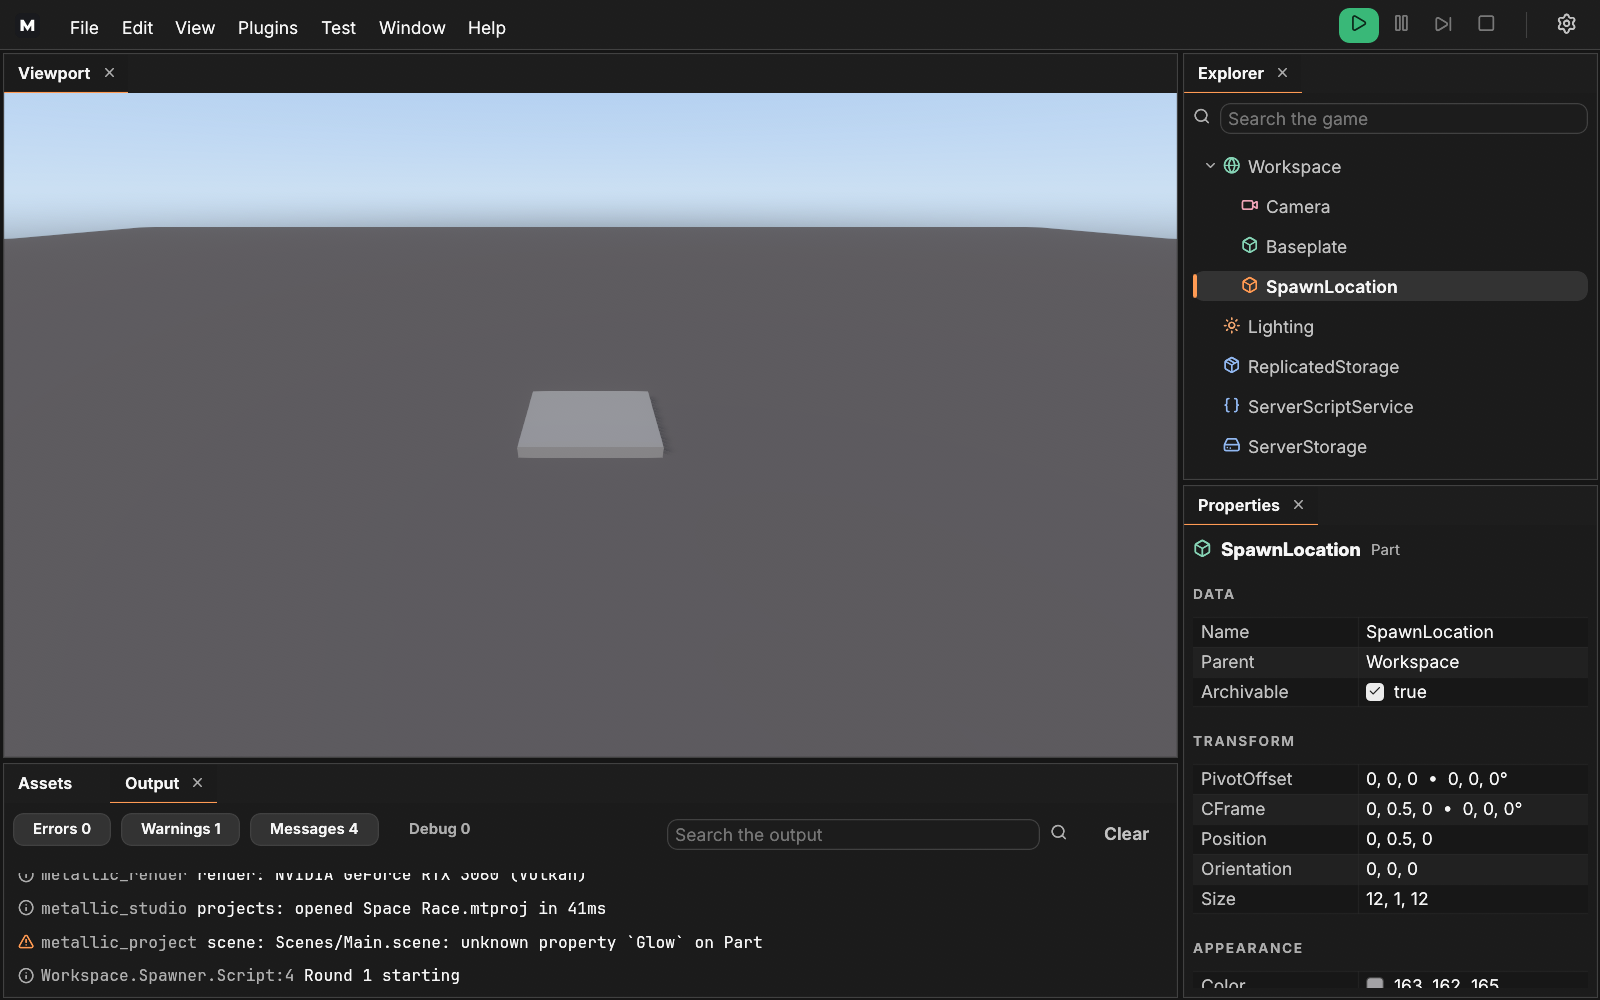
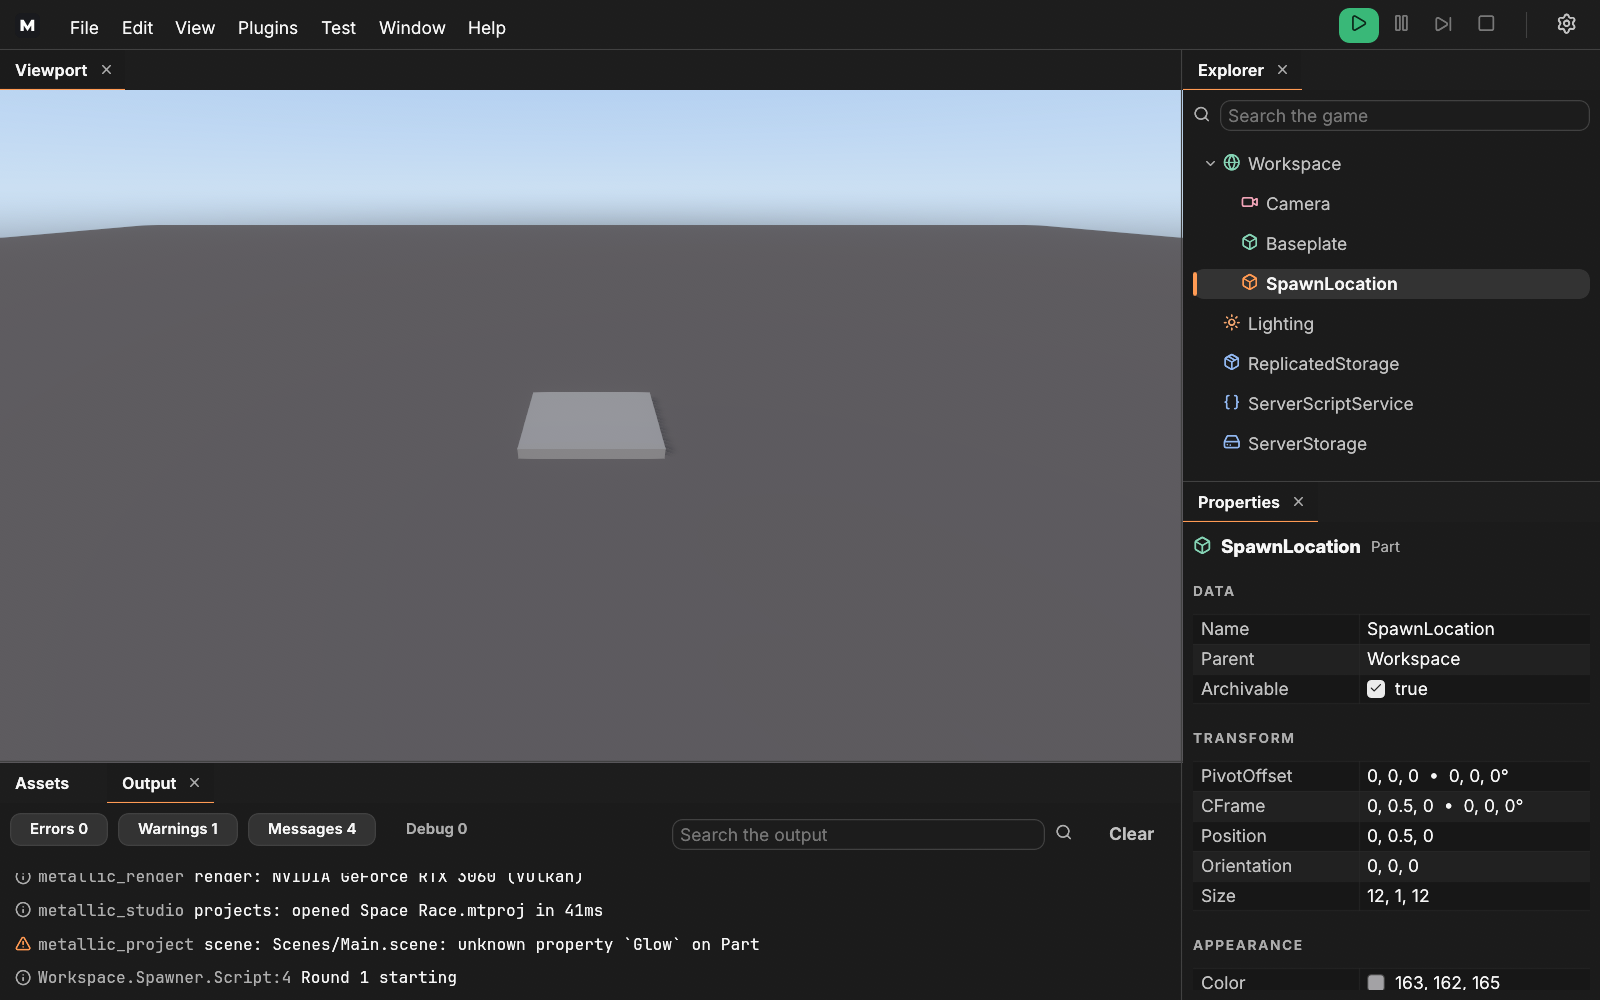
studio: no gaps between docked panels; borders only between them (#273) (#279)

diff --git a/apps/studio/src/dock/mod.rs b/apps/studio/src/dock/mod.rs
@@ -10,8 +10,8 @@
 //!   only when it changed and nothing is being dragged.
 //! - **Dock guides** (#237): while a tab is dragged, squares in the middle of the area under the pointer say where it
 //!   docks, and a drop anywhere but a square or a tab bar leaves the layout as it was ([`guides`]).
-//! - **Panel borders** (#262): with Settings → Appearance → Panel borders on, each group of tabs is outlined with the
-//!   Settings window's 1 px border, square, a little apart from the next.
+//! - **Panel borders** (#262, #273): the groups sit flush, and with Settings → Appearance → Panel borders on, a 1 px
+//!   line parts each from the next; a side along the window's edge has none.
 
 pub(crate) mod guides;
 pub mod layout;
@@ -351,6 +351,7 @@ impl Dock {
             panels: self.panels,
             borders,
             groups,
+            area: ui.max_rect(),
             cx,
             focus: DockFocus {
                 focused: self.focus.focused,
@@ -461,6 +462,8 @@ struct DockBehavior<'a, 'b> {
     borders: bool,
     /// The groups of tabs, which the borders outline.
     groups: Vec<TileId>,
+    /// The dock's whole area: a group's side along it has no border (#273).
+    area: Rect,
     /// Each tab drawn this frame and where: where a dragged tab goes in a bar it is dropped on.
     tabs: Vec<(TileId, Rect)>,
 }
@@ -491,8 +494,6 @@ const CLOSE_SIZE: f32 = 18.0;
 /// The active tab's accent underline (#255: 1 px, thinner than the 3 px bars that mark selected list items).
 pub(crate) const TAB_LINE: f32 = 1.0;
 
-/// The space between outlined groups of tabs (#262).
-const BORDER_GAP: f32 = space::S2;
 /// Every group of tabs in `tree`: what the panel borders outline.
 fn tab_groups(tree: &Tree<PanelId>) -> Vec<TileId> {
     tree.tiles
@@ -502,14 +503,26 @@ fn tab_groups(tree: &Tree<PanelId>) -> Vec<TileId> {
         .collect()
 }
 
-/// Outlines `rect` with the Settings window's 1 px border in `edge`: square, as docked panels are (owner, #262).
-fn paint_border(painter: &egui::Painter, rect: Rect, edge: Color32) {
-    painter.rect_stroke(
-        rect,
-        CornerRadius::ZERO,
-        Stroke::new(size::BORDER, edge),
-        egui::StrokeKind::Inside,
-    );
+/// The 1 px lines a group in `rect` draws (#273): borders only between docked panels, never along the dock's edge
+/// (`area`, the window's). Each group draws its right and bottom sides when another group is there, so two
+/// neighbours share one line rather than two.
+fn inner_edges(rect: Rect, area: Rect) -> Vec<Rect> {
+    // Within half a point: layouts are fractional.
+    const SAME: f32 = 0.5;
+    let mut lines = Vec::new();
+    if area.right() - rect.right() > SAME {
+        lines.push(Rect::from_min_max(
+            pos2(rect.right() - size::BORDER, rect.top()),
+            rect.right_bottom(),
+        ));
+    }
+    if area.bottom() - rect.bottom() > SAME {
+        lines.push(Rect::from_min_max(
+            pos2(rect.left(), rect.bottom() - size::BORDER),
+            rect.right_bottom(),
+        ));
+    }
+    lines
 }
 
 /// Draws one tab (its title and close button; no icon, #255) filling the bar's height, interacting as `id`. Returns
@@ -631,14 +644,13 @@ impl egui_tiles::Behavior<PanelId> for DockBehavior<'_, '_> {
     }
 
     fn gap_width(&self, _style: &egui::Style) -> f32 {
-        if self.borders { BORDER_GAP } else { 2.0 }
+        // Flush (#273): the borders, not gaps, part the groups.
+        0.0
     }
 
     fn resize_stroke(&self, style: &egui::Style, resize_state: ResizeState) -> Stroke {
         match resize_state {
-            // Outlined groups stand apart on the background; without borders the gap is the tab bars' colour.
-            ResizeState::Idle if self.borders => Stroke::NONE,
-            ResizeState::Idle => Stroke::new(self.gap_width(style), self.colors.palette.header),
+            ResizeState::Idle => Stroke::NONE,
             ResizeState::Hovering => style.visuals.widgets.hovered.fg_stroke,
             ResizeState::Dragging => style.visuals.widgets.active.fg_stroke,
         }
@@ -646,8 +658,9 @@ impl egui_tiles::Behavior<PanelId> for DockBehavior<'_, '_> {
 
     fn paint_on_top_of_tile(&self, painter: &egui::Painter, _style: &egui::Style, tile_id: TileId, rect: Rect) {
         if self.borders && self.groups.contains(&tile_id) {
-            let p = self.colors.palette;
-            paint_border(painter, rect, p.border);
+            for line in inner_edges(rect, self.area) {
+                painter.rect_filled(line, CornerRadius::ZERO, self.colors.palette.border);
+            }
         }
     }
 
@@ -764,29 +777,32 @@ mod tests {
     }
 
     #[test]
-    fn panel_borders_outline_each_group_of_tabs_square() {
+    fn panel_borders_are_lines_between_groups_only() {
         let dock = Dock::in_memory(PANELS);
         // Viewport, Assets and Output, Explorer, Properties.
         assert_eq!(tab_groups(dock.tree()).len(), 4);
 
-        let ctx = egui::Context::default();
-        let rect = Rect::from_min_size(pos2(10.0, 10.0), vec2(200.0, 100.0));
-        let edge = Color32::BLUE;
-        let mut output = ctx.run_ui(egui::RawInput::default(), |ui| {
-            paint_border(ui.painter(), rect, edge);
-        });
-        let shapes: Vec<&egui::Shape> = output.shapes.iter().map(|clipped| &clipped.shape).collect();
-        assert_eq!(shapes.len(), 1, "the outline alone");
-        let outline = shapes.iter().find_map(|shape| match shape {
-            egui::Shape::Rect(outline) => Some(outline),
-            _ => None,
-        });
-        let outline = outline.expect("an outline");
-        assert_eq!(outline.rect, rect);
-        assert_eq!(outline.corner_radius, CornerRadius::ZERO, "square, not rounded");
-        assert_eq!(outline.stroke, Stroke::new(size::BORDER, edge));
-        // epaint checks the frame's font texture was taken.
-        output.textures_delta.clear();
+        let area = Rect::from_min_max(pos2(0.0, 0.0), pos2(1000.0, 600.0));
+        let left_top = Rect::from_min_max(pos2(0.0, 0.0), pos2(700.0, 400.0));
+        let left_bottom = Rect::from_min_max(pos2(0.0, 400.0), pos2(700.0, 600.0));
+        let right = Rect::from_min_max(pos2(700.0, 0.0), pos2(1000.0, 600.0));
+        // Top left: a line along its right (the column beside it) and its bottom (the group under it).
+        assert_eq!(
+            inner_edges(left_top, area),
+            [
+                Rect::from_min_max(pos2(699.0, 0.0), pos2(700.0, 400.0)),
+                Rect::from_min_max(pos2(0.0, 399.0), pos2(700.0, 400.0)),
+            ]
+        );
+        // Bottom left: its bottom and left touch the window's edge, so only its right has a line.
+        assert_eq!(
+            inner_edges(left_bottom, area),
+            [Rect::from_min_max(pos2(699.0, 400.0), pos2(700.0, 600.0))]
+        );
+        // The right column touches the window on three sides and its neighbour draws the line between: none.
+        assert!(inner_edges(right, area).is_empty());
+        // Fractional layouts still count as touching.
+        assert!(inner_edges(Rect::from_min_max(pos2(700.0, 0.0), pos2(999.8, 600.2)), area).is_empty());
     }
 
     #[test]

diff --git a/apps/studio/src/app/mod.rs b/apps/studio/src/app/mod.rs
@@ -459,7 +459,7 @@ impl Studio {
             editor,
             settings: self.settings.settings_mut(),
         };
-        ui.scope_builder(UiBuilder::new().max_rect(body.shrink(space::S1)), |ui| {
+        ui.scope_builder(UiBuilder::new().max_rect(body), |ui| {
             self.dock.ui(ui, &mut cx);
         });
         if let Some(action) = action {
@@ -3150,6 +3150,41 @@ mod tests {
         let tiles = &studio.dock().tree().tiles;
         let pane = tiles.find_pane(&crate::dock::PanelId(id.into())).unwrap();
         tiles.rect(tiles.parent_of(pane).unwrap()).unwrap()
+    }
+
+    #[test]
+    fn docked_panels_sit_flush_with_each_other_and_the_window() {
+        let mut harness = editing(settings_file("flush", None), "Flush Game");
+        harness.set_size(egui::vec2(1280.0, 800.0));
+        settle(&mut harness);
+        let studio = &harness.state().studio;
+        let viewport = area_of(studio, panels::ids::VIEWPORT);
+        let output = area_of(studio, panels::ids::OUTPUT);
+        let explorer = area_of(studio, panels::ids::EXPLORER);
+        let properties = area_of(studio, panels::ids::PROPERTIES);
+        // No gap between groups (#273).
+        assert!(
+            (viewport.bottom() - output.top()).abs() < 0.01,
+            "{viewport:?} {output:?}"
+        );
+        assert!(
+            (explorer.bottom() - properties.top()).abs() < 0.01,
+            "{explorer:?} {properties:?}"
+        );
+        assert!(
+            (viewport.right() - explorer.left()).abs() < 0.01,
+            "{viewport:?} {explorer:?}"
+        );
+        // None around the dock: it meets the frame's left, right and bottom, and the top bar. The harness frames the
+        // UI with a margin of its own (Studio's window has none): the top bar's top-left corner is the frame's.
+        let margin = viewport.top() - editor::BAR_HEIGHT;
+        assert!(
+            (viewport.left() - margin).abs() < 0.01 && (output.left() - margin).abs() < 0.01,
+            "{viewport:?}"
+        );
+        assert!((explorer.right() - (1280.0 - margin)).abs() < 0.01, "{explorer:?}");
+        assert!((output.bottom() - (800.0 - margin)).abs() < 0.01, "{output:?}");
+        assert!((properties.bottom() - (800.0 - margin)).abs() < 0.01, "{properties:?}");
     }
 
     /// Where the guide for `side` is drawn over the area of the tab bar holding `id`.

diff --git a/docs/adr/0009-studio-foundation.md b/docs/adr/0009-studio-foundation.md
@@ -91,9 +91,9 @@ One window, one state machine: **Splash → Sign in → Projects → Editor**. O
   repaired on load (they are dropped, and the default layout is used if nothing is left). **Reset layout** is in the
   View menu (since #239, in the Window menu of the Roblox-style menu bar: File, Edit, View, Plugins, Test, Window,
   Help, with items for features still to come shown disabled).
-- **Panel borders** (#262): each group of tabs is outlined like the Settings window (1 px border colour, square
-  corners: rounded ones looked wrong on docked panels; a 4 px gap between groups). Settings → Appearance → Panel
-  borders turns it off (on by default).
+- **Panel borders** (#262, #273): docked groups sit flush, with no gap between them or around the dock. A 1 px line
+  in the border colour parts neighbours (square: rounded corners looked wrong on docked panels); a side along the
+  window's edge has none. Settings → Appearance → Panel borders turns the lines off (on by default).
 - **Default layout:** Viewport in the centre; Explorer on the left with Assets as a tab beside it; Properties on the
   right; Output along the bottom.
 - **Panels in this slice:** Viewport; Explorer (the DataModel tree, selection, search); Properties (the selected
